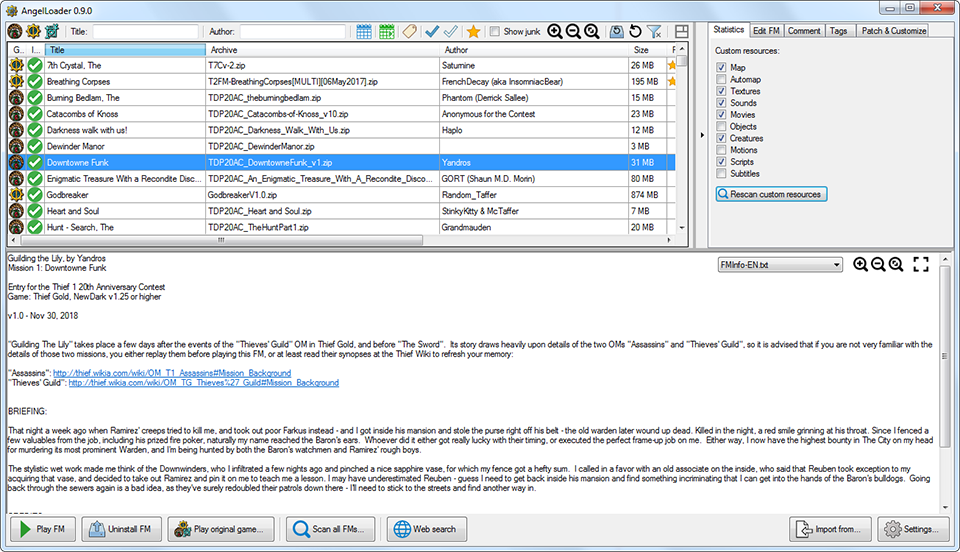
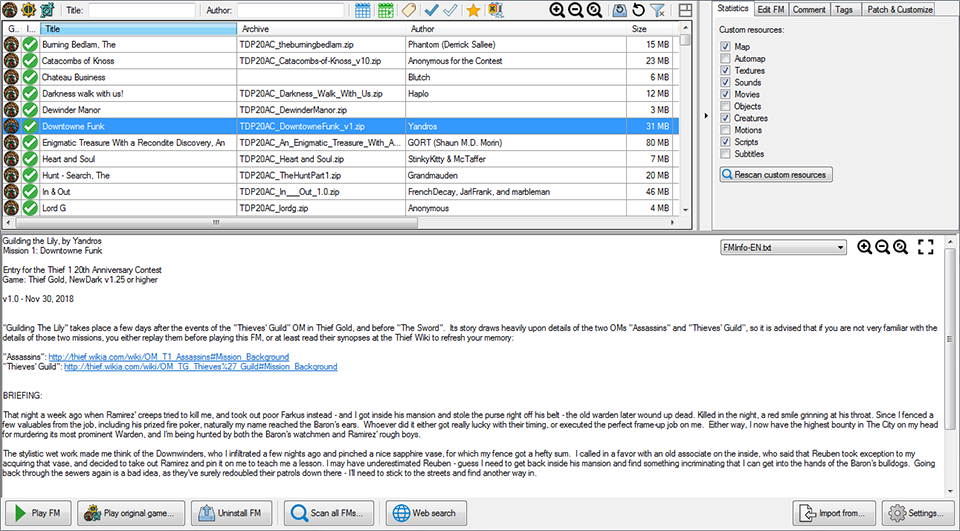
Update doc, and add debug stuff to make screenshots easier in the future

diff --git a/doc/AngelLoader documentation.html b/doc/AngelLoader documentation.html
@@ -130,8 +130,8 @@ Whenever new FMs are detected, they will be quick-scanned for game type only. If
 <h4>Filter bar</h4>
 Here you can choose to filter your FM list by game, title, author, release date, last played date, tags, finished status, and rating. If you've chosen to organize your games by tab, then these tabs will take the place of the game filter buttons.
 
-<h4><a name="show_junk" />Show junk</h4>
-This allows archives marked as Unknown (<img src="images/red_circle_question_mark_21.png" />) (archives that were rejected as not being FMs) to be displayed in the list. In the extremely unlikely case that AngelLoader has rejected an FM in error, you can then choose to re-scan it. You probably won't need to use this.
+<h4><a name="show_junk" />Show unsupported</h4>
+This allows archives marked as Unknown (<img src="images/red_circle_question_mark_21.png" />) (archives that were rejected as not being FMs) to be displayed in the list. If support for new games is added in the future, you can use this to show previously unsupported FMs so you can re-scan them individually if you wish.
 
 <h4>Refresh from disk button</h4>
 Reloads the list of FMs from disk. This will always occur on startup, but this button is useful if you've added new FMs since starting AngelLoader.
@@ -206,7 +206,7 @@ Displays an icon based on which game the mission is for. If unknown, it will be 
 <img src="images/Thief1_21.png" /> - Thief<br>
 <img src="images/Thief2_21.png" /> - Thief II<br>
 <img src="images/Thief3_21.png" /> - Thief: Deadly Shadows<br>
-<img src="images/red_circle_question_mark_21.png" /> - Unsupported mission or non-mission archive (these only appear when <a href="#show_junk">Show junk</a> is enabled).</p>
+<img src="images/red_circle_question_mark_21.png" /> - Unsupported mission or non-mission archive (these only appear when the <a href="#show_junk">Show Unsupported</a> filter is enabled).</p>
 
 <h4>Installed</h4>
 Displays a <img src="images/green_check_21.png" /> icon if an FM is installed; otherwise remains blank.

diff --git a/AngelLoader/Forms/MainForm.cs b/AngelLoader/Forms/MainForm.cs
@@ -1159,6 +1159,8 @@ namespace AngelLoader.Forms
 
         private void Test2Button_Click(object sender, EventArgs e)
         {
+            Width = 1305;
+            Height = 750;
         }
 
         internal void SetDebugMessageText(string text)
